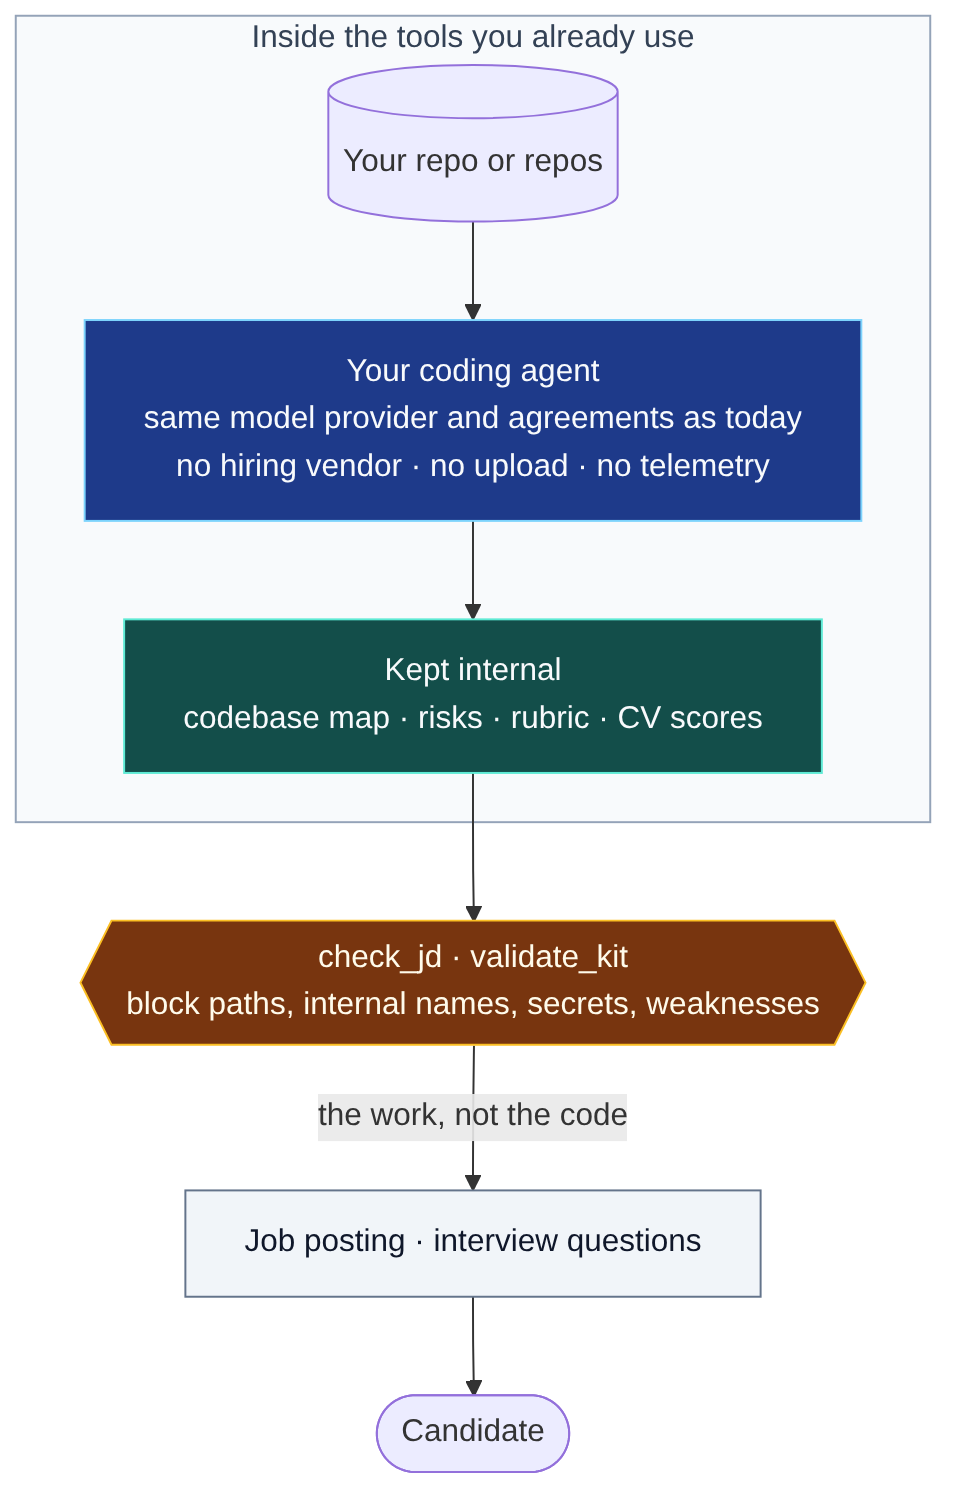
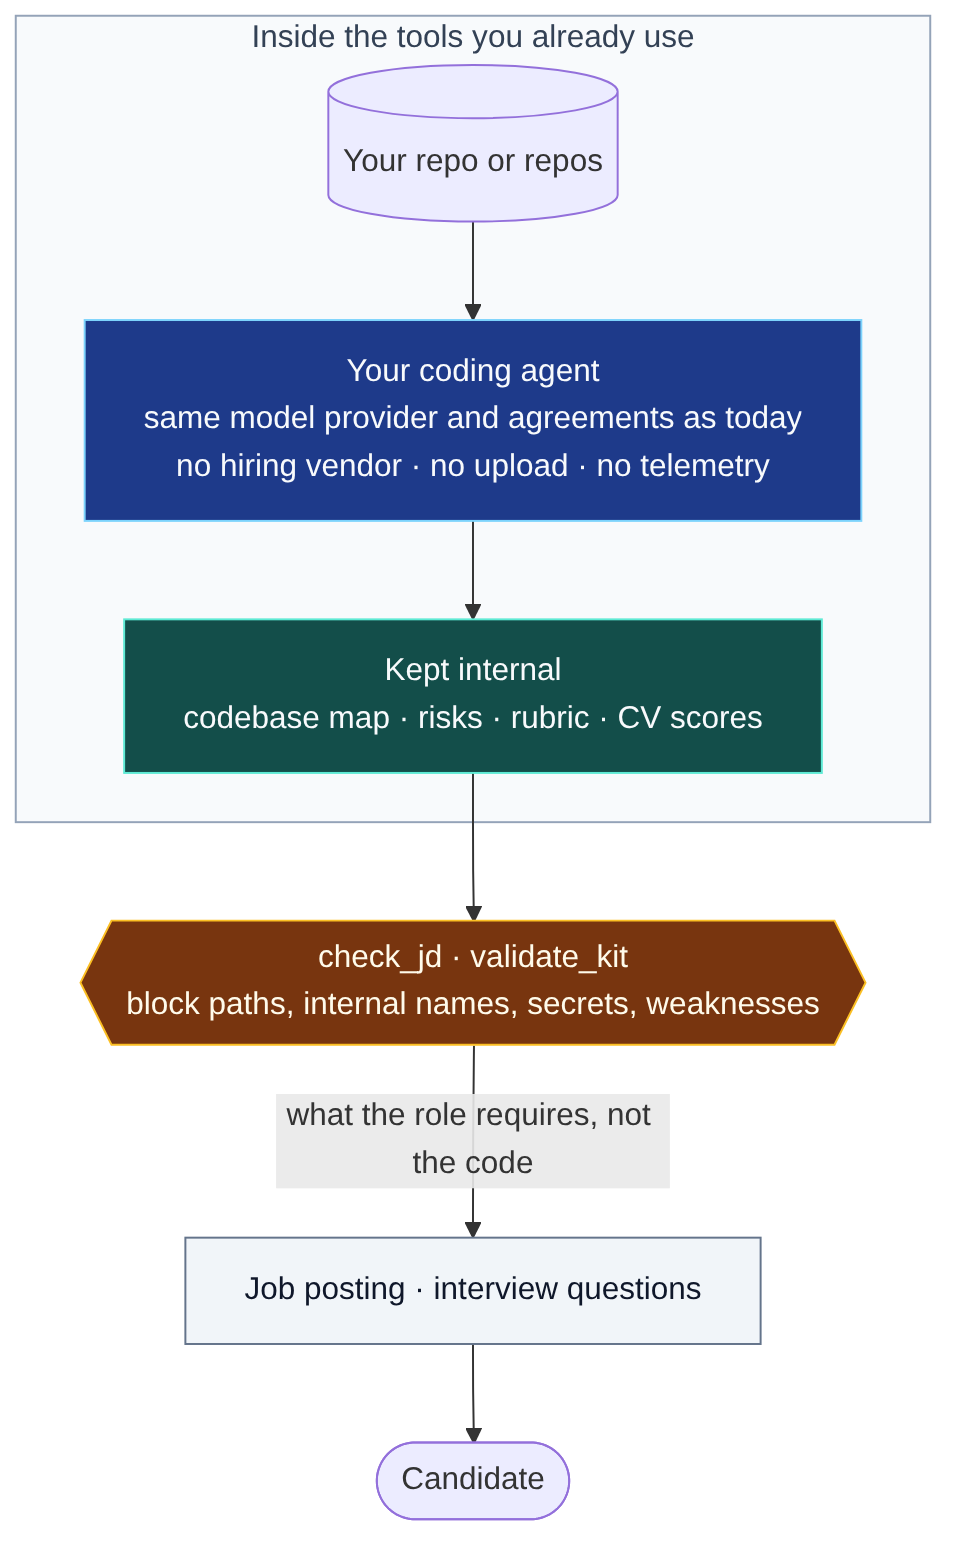
README: realistic comparison posting and a clearer privacy line (v0.13.1)
- Replace the exaggerated generic posting with an ordinary one (6 warnings)
- "Candidates learn precisely what the role requires, without your codebase
  being revealed" replaces "Candidates see the work, never the code" in the
  README, diagram, walk-through and social card

Claude-Session: https://claude.ai/code/session_01FWhLsscTBmJ4Bcva6KCRP6

diff --git a/evals/selftest.py b/evals/selftest.py
@@ -173,7 +173,7 @@ def test_jd_checker(tmp):
     rc, out = quiet(check_jd.main, [str(role)])
     expect(rc == 0 and "0 errors, 0 warnings" in out, "good JD passes with no errors or warnings")
     rc_g, out_g = quiet(check_jd.main, [str(HERE / "fixtures" / "jd" / "generic")])
-    expect(out_g.count("warn ") == 10, "the README's typical posting gets exactly the 10 warnings it claims")
+    expect(out_g.count("warn ") == 6, "the README's typical posting gets exactly the 6 warnings it claims")
     expect("no notice that AI is used in screening" in out_g, "a posting with no AI-screening notice is flagged")
     expect("[insert: benefits]" in out and "[insert: how AI-assisted screening" in out, "unfilled placeholders are listed")
     rc, out = quiet(check_jd.main, [str(role), "--jd", str(FIXTURE.parent / "jd" / "bad-jd.md")])

diff --git a/docs/assets/make_walkthrough.py b/docs/assets/make_walkthrough.py
@@ -28,7 +28,7 @@ LINES = [
     ("> B", AMBER, 5.4),
     ("● Recorded. Pay, location: skipped", MUTED, 6.2),
     ("  → [insert: …] placeholders", MUTED, 6.2),
-    ("● Drafting: the work, not the code …", TEXT, 8.0),
+    ("● Drafting: what the role requires …", TEXT, 8.0),
     ("✓ check_jd: 0 leaked internals", TEAL, 9.8),
     ("✓ jd.md: a draft for you to finish", TEAL, 10.8),
 ]

diff --git a/README.md b/README.md
@@ -36,7 +36,7 @@ need, and **drafts the job description for that person**: specific about the kin
 and yours to finish. When applications arrive, it can also screen CVs and résumés against the same requirements and
 write tailored technical interview questions for each candidate.
 
-> **Candidates see the work, never the code.** And your code goes nowhere it doesn't already go: everything runs
+> **Candidates learn precisely what the role requires, without your codebase being revealed.** And your code goes nowhere it doesn't already go: everything runs
 > inside the coding agent your team already uses. [How that works ↓](#your-code-stays-private)
 
 **Built for** engineering managers, tech leads and founders hiring software engineers into an existing codebase.
@@ -54,14 +54,13 @@ with or endorsed by Ollama.*
 
 **A typical posting** (made up for comparison):
 
-> We're looking for a rockstar engineer to join our fast-paced team and build cutting-edge AI.
-> Must have 5+ years of Python and C++, experience with LLMs, PyTorch and CUDA, a CS degree from a top university,
-> and be a native English speaker. Competitive salary.
+> We're looking for a passionate engineer to join our fast-paced team and work on cutting-edge AI. You have 5+ years
+> of experience with Python and C++, hands-on experience with LLMs, PyTorch and CUDA, a degree in Computer Science or
+> a related field, and excellent communication skills. Competitive salary and great benefits.
 
-Run through the checker ([as a full posting](evals/fixtures/jd/generic/jd.md)), it gets 10 warnings: hype words,
-years of experience, degree and school demands, "native speaker", six must-haves, no pay range, no notice that AI
-helps screen. And it says nothing
-about the actual job.
+Nothing in it is unusual, and the checker ([run on the full posting](evals/fixtures/jd/generic/jd.md)) still gives 6
+warnings: a vague phrase, years of experience, a degree as a must-have, no pay range, no notice that AI helps screen,
+and missing sections. More importantly, it says nothing about the actual job.
 
 **Drafted from Ollama's code** for an engineer on its inference engine, after four questions (the area, the title,
 a one-line focus on new model support, and what success looks like):
@@ -204,7 +203,7 @@ microservices**? It maps each one and how they connect. Tell it **what to focus 
 
 ## Your code stays private
 
-**Candidates see the work, never the code.** The skills read your repository and turn it into a job description and
+**Candidates learn precisely what the role requires, without your codebase being revealed.** The skills read your repository and turn it into a job description and
 interview questions about your real problems. Before anything is shared, internal names, file paths, settings,
 secrets and weaknesses are checked out of it: `check_jd.py` for the posting, `validate_kit.py` for the interview
 questions. The codebase map's risks section is marked internal and never published. So an interview can be about
@@ -217,7 +216,7 @@ upload, no new account and no telemetry. Maps, rubrics and CV scores stay in a g
 private workspace outside your repos.
 
 <p align="center">
-  <img src="docs/assets/privacy.png" alt="Your repos and your coding agent, inside the tools you already use, produce internal maps, rubric and scores; check_jd and validate_kit block paths, internal names, secrets and weaknesses; only the job posting and interview questions, the work and not the code, reach the candidate" width="440">
+  <img src="docs/assets/privacy.png" alt="Your repos and your coding agent, inside the tools you already use, produce internal maps, rubric and scores; check_jd and validate_kit block paths, internal names, secrets and weaknesses; only the job posting and interview questions, describing what the role requires and not the code, reach the candidate" width="440">
 </p>
 
 <sub>Full details in the [privacy policy](PRIVACY.md). Your agent does send code and redacted CVs to its model provider, as it does for any other task. The leak

diff --git a/evals/fixtures/jd/generic/jd.md b/evals/fixtures/jd/generic/jd.md
@@ -1,19 +1,17 @@
 # Senior ML Engineer
 
 ## About the role
-We're looking for a rockstar engineer to join our fast-paced team and build cutting-edge AI.
+We're looking for a passionate engineer to join our fast-paced team and work on cutting-edge AI.
 
 ## What you'll work on
 - Work on our LLM inference platform.
 - Collaborate with cross-functional teams.
 
 ## Must-haves
-- 5+ years of Python and C++.
-- Experience with LLMs, PyTorch and CUDA.
-- CS degree from a top university.
-- Native English speaker.
-- Strong communication skills.
-- Passion for AI.
+- 5+ years of experience with Python and C++.
+- Hands-on experience with LLMs, PyTorch and CUDA.
+- Degree in Computer Science or a related field.
+- Excellent communication skills.
 
 ## What we offer
-Competitive salary.
+Competitive salary and great benefits.

diff --git a/CHANGELOG.md b/CHANGELOG.md
@@ -3,7 +3,14 @@
 All notable changes are listed here. The project follows [Semantic Versioning](https://semver.org/);
 before 1.0, minor versions may change file formats.
 
-## [0.13.0] — 2026-11-09
+## [0.13.1] — 2026-11-09
+
+### Changed
+- README: the comparison posting is now an ordinary, realistic one (6 warnings) instead of a caricature.
+- The tagline "Candidates see the work, never the code" is now "Candidates learn precisely what the role requires,
+  without your codebase being revealed", in the README, privacy diagram, walk-through and social card.
+
+ — 2026-11-09
 
 ### Added
 - `scripts/install.sh`: installs the skills by copying them, with no network access or Node:
